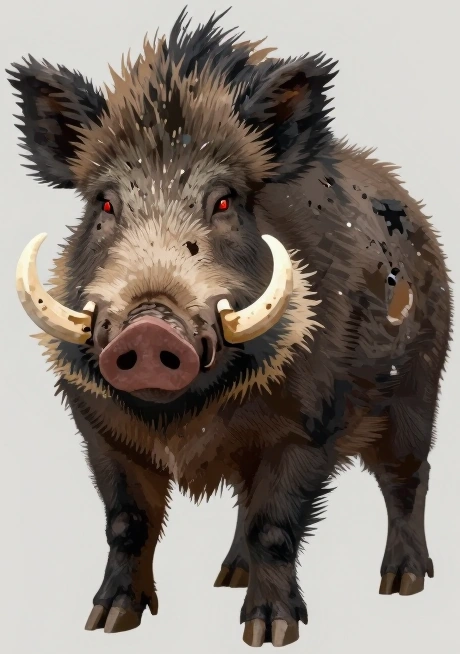
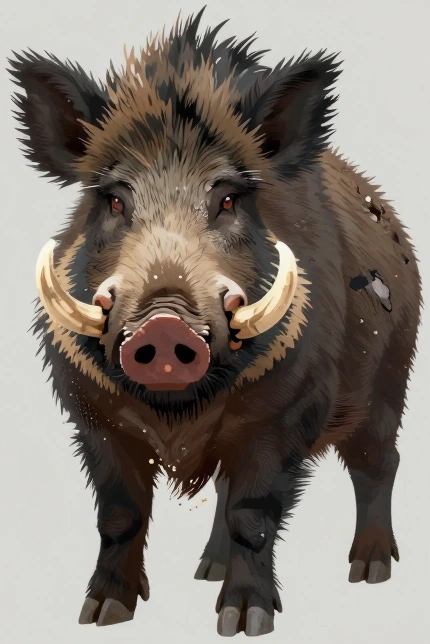
Redraw the beach monsters: no ground shadows, a real rear view for the boar; fog under the characters

diff --git a/src/game/FogLayer.ts b/src/game/FogLayer.ts
@@ -3,14 +3,14 @@ import { SpriteKey } from './assetManifest';
 import type { AssetLoader } from './AssetLoader';
 import { Layer, sortKey } from './iso';
 
-/** Fog over a map: big soft pale clouds that drift slowly across the whole view, drawn over everything. */
+/** Fog over a map: big soft pale clouds that drift slowly across the whole view. They lie over the ground but under every object, character and monster, which stay crisp. */
 
 /** The clouds tile the world in a rectangle this big (scene pixels): a cloud that leaves one side of it comes back on the other. */
 const PERIOD_X = 1000;
 const PERIOD_Y = 640;
 const CLOUD_COUNT = 14;
 /** Opacity of one cloud at fog thickness 1. */
-const MAX_OPACITY = 0.42;
+const MAX_OPACITY = 0.6;
 const FOG_COLOR = 0xdce6ec;
 
 interface Cloud {
@@ -47,7 +47,7 @@ export class FogLayer {
       const mesh = new THREE.Mesh(assets.sharedGeometry(SpriteKey.CLOUD), material);
       const size = 2.4 + random() * 2;
       mesh.scale.set(size, size * 0.6, 1);
-      mesh.renderOrder = sortKey(Layer.FOREGROUND, 0, 0);
+      mesh.renderOrder = sortKey(Layer.GROUND_DECAL, 1000, 1000); // after every floor decal, before any object
       this.group.add(mesh);
       this.clouds.push({ mesh, x: (random() - 0.5) * PERIOD_X, y: (random() - 0.5) * PERIOD_Y, vx: 5 + random() * 9, vy: (random() - 0.5) * 4 });
     }

diff --git a/tools/prepare_sprites.py b/tools/prepare_sprites.py
@@ -48,6 +48,7 @@ BOB_SPLIT = 0.52
 #          ('width', n): the side view is n px long (animals, which are wider than tall)
 #   side   which way the side picture faces; the other side is its mirror
 #   colors / saturation / contrast (optional)  palette size and colour boost when the defaults wash a creature out (the viper's green)
+#   brightness (optional)  lifts a creature that came out too dark
 #   roll   True: the sheet also carries the dodge-roll frames (only the hero rolls, but all characters have them)
 # The dwarf boatwright and the small water-carrier are shorter; the hunter's bow tip rises above his head, so he is listed taller.
 SPRITES = {
@@ -67,9 +68,9 @@ SPRITES = {
     'stone_attendant': {'size': ('height', 70), 'side': 'right', 'roll': False, 'out': 'monsters', 'colors': 36, 'frame': 80},
     'mask_spirit': {'size': ('width', 34), 'side': 'right', 'roll': False, 'out': 'monsters', 'colors': 36},
     # the Mist Coast (chapter 2)
-    'cleft_boar': {'size': ('width', 48), 'side': 'right', 'roll': False, 'out': 'monsters', 'colors': 36},
-    'wreck_revenant': {'size': ('height', 58), 'side': 'right', 'roll': False, 'out': 'monsters', 'colors': 36, 'frame': 80},
-    'drowned_spirit': {'size': ('height', 54), 'side': 'right', 'roll': False, 'out': 'monsters', 'colors': 36, 'frame': 80},
+    'cleft_boar': {'size': ('width', 48), 'side': 'right', 'roll': False, 'out': 'monsters', 'colors': 40, 'brightness': 1.12},
+    'wreck_revenant': {'size': ('height', 58), 'side': 'right', 'roll': False, 'out': 'monsters', 'colors': 40, 'frame': 80, 'brightness': 1.3, 'saturation': 1.25},
+    'drowned_spirit': {'size': ('height', 54), 'side': 'right', 'roll': False, 'out': 'monsters', 'colors': 44, 'frame': 80, 'saturation': 1.3},
     'core_watcher': {'size': ('height', 112), 'side': 'right', 'roll': False, 'out': 'monsters', 'colors': 40, 'frame': 128},
 }
 SOURCE_HEIGHT = 660  # the source figures were drawn about this tall
@@ -119,13 +120,15 @@ def drop_ground_shadow(im: Image.Image) -> None:
                 px[x, y] = (r, g, b, 0)
 
 
-def shrink(figure: Image.Image, factor: float, saturation: float = SATURATION, contrast: float = CONTRAST) -> Image.Image:
+def shrink(figure: Image.Image, factor: float, saturation: float = SATURATION, contrast: float = CONTRAST, brightness: float = 1.0) -> Image.Image:
     """Area-averaged shrink (premultiplied, so the grey background never bleeds into the edge); colours are lifted to survive the palette."""
     size = (max(1, round(figure.width * factor)), max(1, round(figure.height * factor)))
     small = figure.convert('RGBa').resize(size, Image.BOX).convert('RGBA')
     rgb = small.convert('RGB')
     rgb = ImageEnhance.Color(rgb).enhance(saturation)
     rgb = ImageEnhance.Contrast(rgb).enhance(contrast)
+    if brightness != 1.0:
+        rgb = ImageEnhance.Brightness(rgb).enhance(brightness)
     out = rgb.convert('RGBA')
     out.putalpha(small.getchannel('A').point(lambda v: 255 if v >= ALPHA_CUTOFF else 0))
     return out
@@ -224,7 +227,7 @@ def build(name: str, preview: Path | None) -> None:
     cuts = {v: cut_out(SRC / f'{name}_{v}.webp') for v in ('front', side, 'back')}
     mode, px = spec['size']
     factor = px / SOURCE_HEIGHT if mode == 'height' else px / cuts[side].width
-    views = {v: shrink(img, factor, spec.get('saturation', SATURATION), spec.get('contrast', CONTRAST)) for v, img in cuts.items()}
+    views = {v: shrink(img, factor, spec.get('saturation', SATURATION), spec.get('contrast', CONTRAST), spec.get('brightness', 1.0)) for v, img in cuts.items()}
     palette = shared_palette(list(views.values()), spec.get('colors', PALETTE_COLORS))
     done = {v: outline(apply_palette(img, palette)) for v, img in views.items()}
     mirrored = done[side].transpose(Image.FLIP_LEFT_RIGHT)

diff --git a/README.md b/README.md
@@ -165,7 +165,7 @@ npm run preview    # 預覽 production build
   - 素材見 [ASSETS.md](ASSETS.md)。**數值（血量、傷害、陷阱的傷害與節奏、群數）都沒有平衡過。**
 - [x] **第二章開始：迷霧海岸（2026-10-15，滄玄洲的第一張地圖）**：設計文件見 [chapter2-canglan-continent.md](docs/design/chapter2-canglan-continent.md)。
   - **怎麼進去**：第一章結局畫面現在有兩個按鈕：**「登陸滄玄洲（第二章）」**把角色（背包、裝備、等級、經驗、藥水充能、任務）原樣帶過去，落在迷霧海岸；「回到島上繼續探索」維持原樣。登陸後島上海岸的渡船旁有一個出口通回滄玄洲（登陸前是封住的）。這之後的島與大陸可以來回走。
-  - **地圖**（60×46，迷霧主題）：濃霧在畫面上緩緩飄過（會隨鏡頭移動，不遮操作）；西邊是海，岸邊有礁石，中間一艘擱淺的沉船，東邊是潮濕的樹林（草地）；浮木、船錨散落各處。沙灘上有一處「殘留的靈氣痕跡」可以查看（三句描寫，暗示島上的靈氣在這裡更亂）。
+  - **地圖**（60×46，迷霧主題）：濃霧貼著地面緩緩飄過（會隨鏡頭移動；霧在地面之上、角色與怪物之下，所以不會蓋住怪物）；西邊是海，岸邊有礁石，中間一艘擱淺的沉船，東邊是潮濕的樹林（草地）；浮木、船錨散落各處。沙灘上有一處「殘留的靈氣痕跡」可以查看（三句描寫，暗示島上的靈氣在這裡更亂）。
   - **荒林野狼**（樹林裡，一群 3 隻）：很快，會**從側面包抄**：遠的時候各自繞向玩家兩側，靠近到 3 格內才直衝；撲咬。
   - **裂角野豬**（樹林裡）：先蹲下蓄力，然後朝你站的位置衝撞（不會轉彎）；**撞到牆、樹或石頭（而不是撞到你）會頭暈 1.8 秒**，這時是反擊的好時機。
   - **溺靈水妖**（水邊，不會動）：**潛伏在水裡**，只看得到水面的漣漪，**不能被打也不會被選中**；你走進 3.6 格內它才浮出來（0.5 秒內什麼都不能做），之後發射水刃。

diff --git a/ASSETS.md b/ASSETS.md
@@ -95,9 +95,11 @@
 | public/assets/props/decor_driftwood_a/b.png | 浮木堆（地面裝飾，不擋路） |
 | public/assets/props/decor_anchor.png | 生鏽的船錨（地面裝飾） |
 
-**荒林野狼沿用林道野狼的圖**（同一種動物；只是數值與行為不同，見 README）。**程式畫的**：霧（白色的柔邊雲，[HazardArt.ts](src/game/HazardArt.ts) 的 `drawCloud`）、水面的漣漪（水妖潛伏時）。
+**荒林野狼沿用林道野狼的圖**（同一種動物；只是數值與行為不同，見 README）。**程式畫的**：霧（白色的柔邊雲，鋪在地面之上、所有物件與角色之下，所以不會把怪物洗成灰色，[HazardArt.ts](src/game/HazardArt.ts) 的 `drawCloud`）、水面的漣漪（水妖潛伏時）。
 
-**已知的限制**：只有待機有畫格，其餘動作是程式演出；水妖是半透明水體，縮成像素後顏色偏綠褐、透明感不見了；沉船很大（比 5×3 格的腳印高很多），走到它後面角色會被擋住，目前沒有淡出；
+**重畫過一次**（第一版的怨骸與水妖腳下帶著地面陰影、霧氣與水窪，縮成像素後變成怪異的色塊，怨骸又暗又糊，野豬的「背面」其實是側面）：新版提示詞明確禁止地面、陰影、水窪、霧；野豬的背面改用「沿著脊椎從正後方看」的描述重畫；人形的背面描述不再提到「尾巴」（第一次畫出了尾巴）。像素腳本新增 `brightness` 選項，怨骸提亮了。
+
+**已知的限制**：只有待機有畫格，其餘動作是程式演出；水妖的透明感只靠藍色調表現（不是真的半透明）；怨骸的綠色發光眼睛縮成像素後看不見；怨骸與水妖腳下還有一小塊灰色殘影；沉船很大（比 5×3 格的腳印高很多），走到它後面角色會被擋住，目前沒有淡出；
 沉船、浮木、船錨是同一批生成圖，木頭的顏色和島上的建築不太一致。
 
 ## 初胎核心的怪物與場景（2026-10-15，本機 AI 生成 + 程式繪製）
